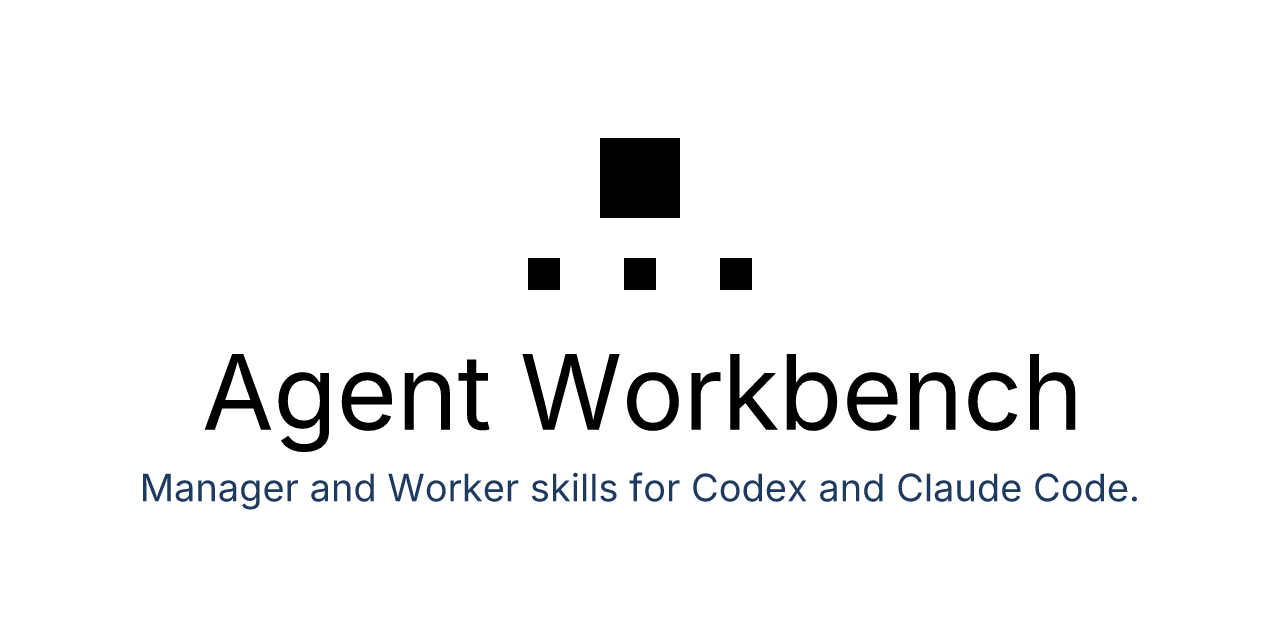
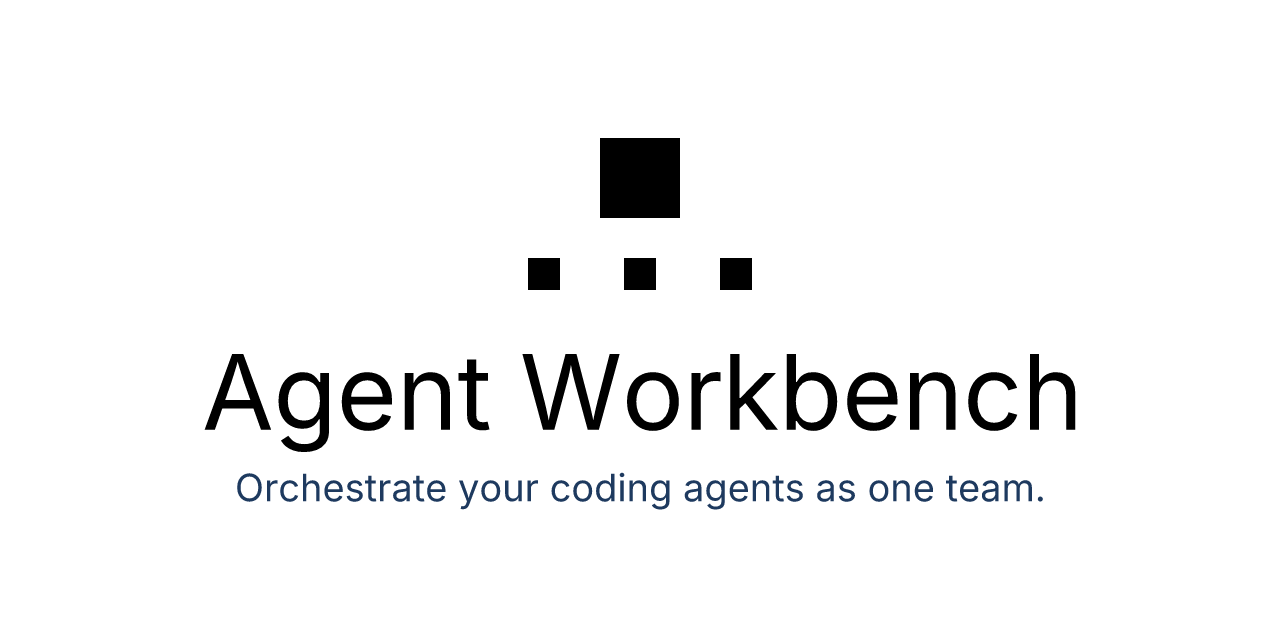
Use a harness-agnostic tagline and description

Changed region(s): [[0.0938, 0.7188, 0.9062, 0.8125]]

diff --git a/README.md b/README.md
@@ -7,6 +7,10 @@
 
 # Agent Workbench Skills
 
+**Orchestrate your coding agents as one team.**
+
+Skills and tools for multi-agent engineering. A Manager session plans and delegates, Workers build and review, and work hands off cleanly across sessions, harnesses and machines.
+
 Seven portable skills for Codex and Claude Code. Core skills are manage-lane, orchestrate-harnesses, prompt-for-decisions, thermal-guard and workbench-setup; disk-cleanup and review-storybook are optional:
 
 - disk-cleanup — inspect and reclaim safe, regenerable disk usage.
